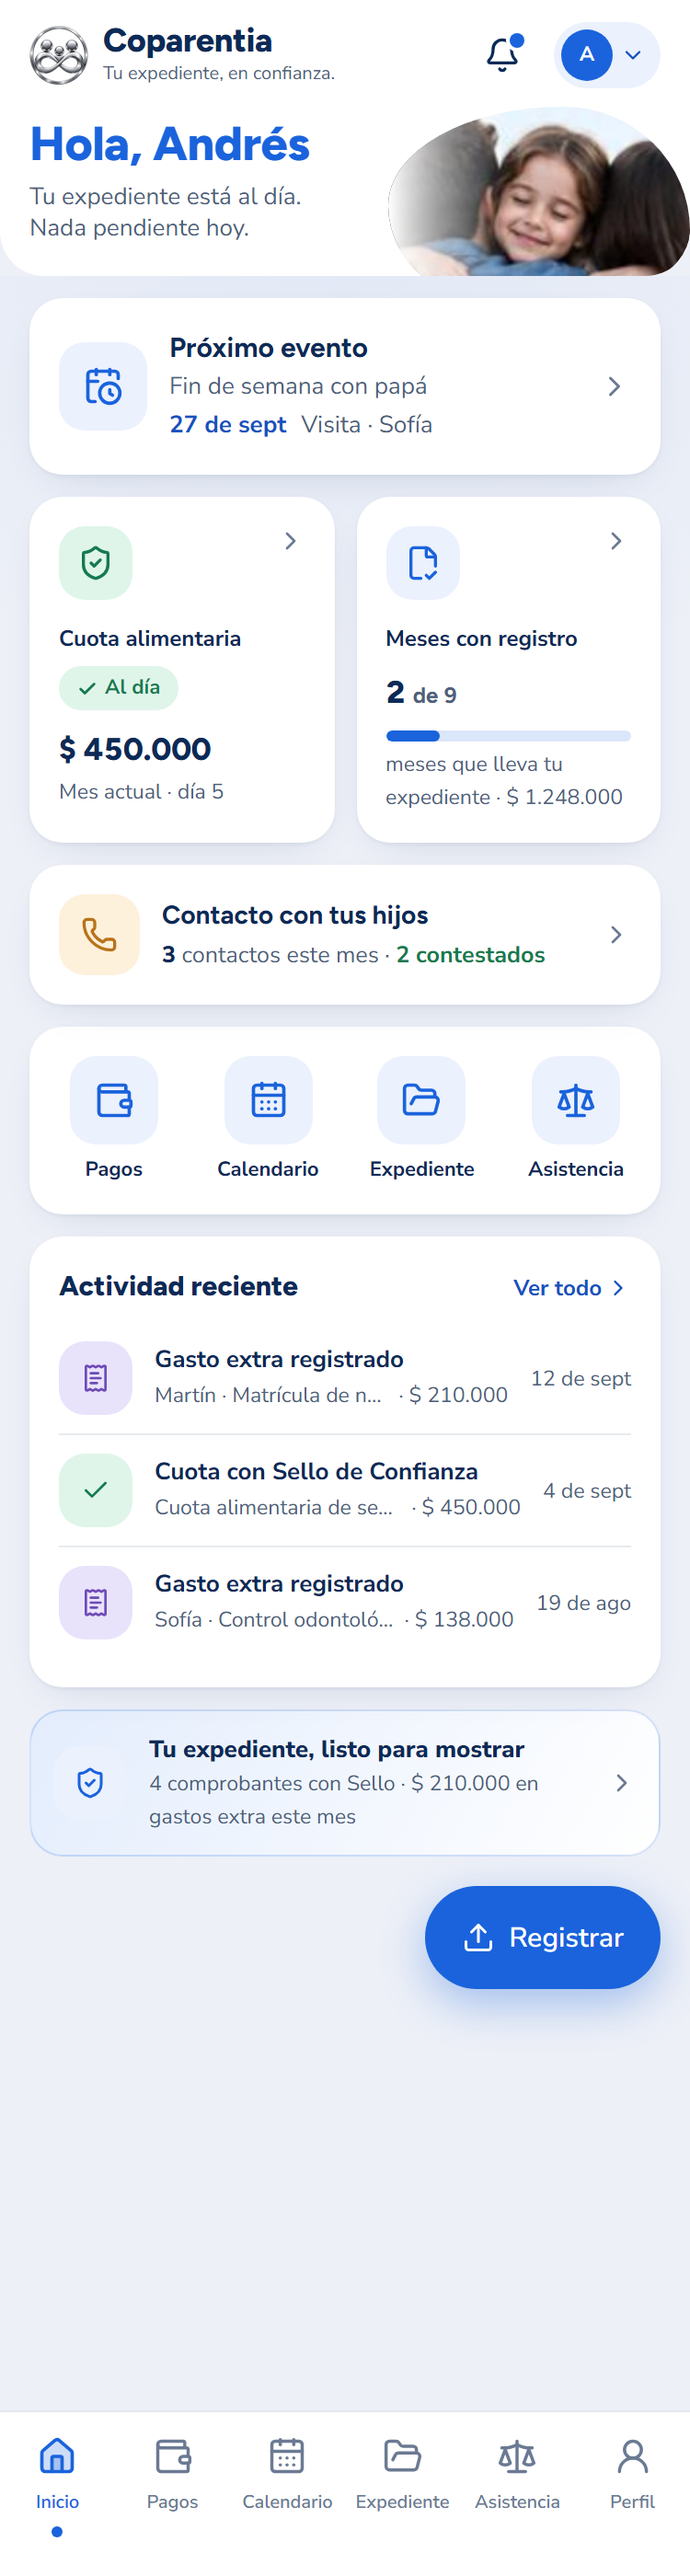
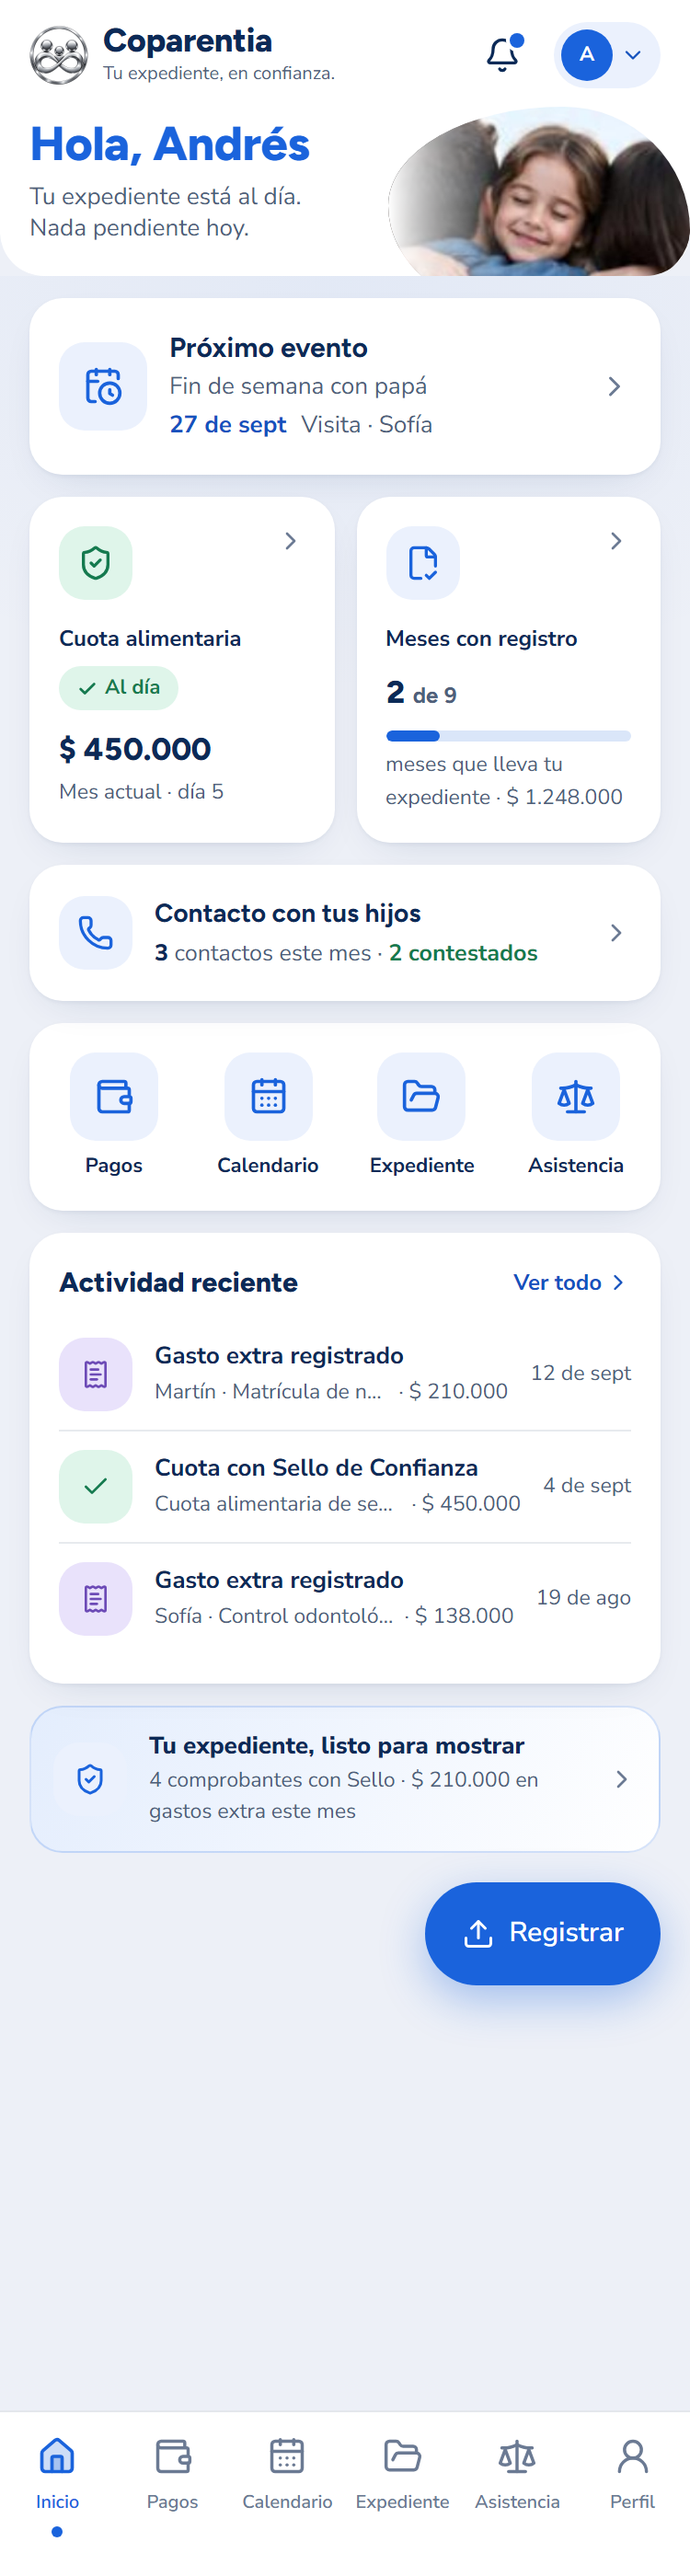
fix(inicio): color no neutro corregido en la tarjeta de contacto
El chip de "Contacto con tus hijos" usaba el ambar de categoria que
Calendario reserva para "llamada" -- un 4o color no neutro sobre una
pantalla que ya usa azul+verde+morado. Ahora usa el mismo acento azul
del resto de Inicio; el color por categoria se queda solo en Calendario.

diff --git a/app/(app)/inicio/page.tsx b/app/(app)/inicio/page.tsx
@@ -604,9 +604,10 @@ function Dashboard() {
                 Cifra del mes: llamadas/videollamadas registradas y cuántas contestaron. */}
             <Link href="/calendario" className="mt-3 block transition-transform duration-100 active:scale-[0.99] [touch-action:manipulation]">
               <Tarjeta className="flex items-center gap-3">
-                <span className="flex size-11 shrink-0 items-center justify-center rounded-[var(--radius-chip,999px)]" style={{ background: 'var(--cat-llamada-bg)', color: 'var(--cat-llamada)' }}>
-                  <Phone size={20} aria-hidden="true" />
-                </span>
+                {/* El color por categoría (ámbar de "llamada") vive en Calendario; aquí es un 4º
+                    color no neutro de más sobre azul+verde+morado (hallazgo del revisor-visual,
+                    2026-09-25) — se usa el mismo acento neutro que el resto de Inicio. */}
+                <IconoCirculo icon={Phone} size={20} />
                 <div className="min-w-0 flex-1">
                   <p className="text-[14px] font-bold text-[var(--text-primary)] [font-family:var(--font-display)]">Contacto con tus hijos</p>
                   {contactosMes.length > 0 ? (
